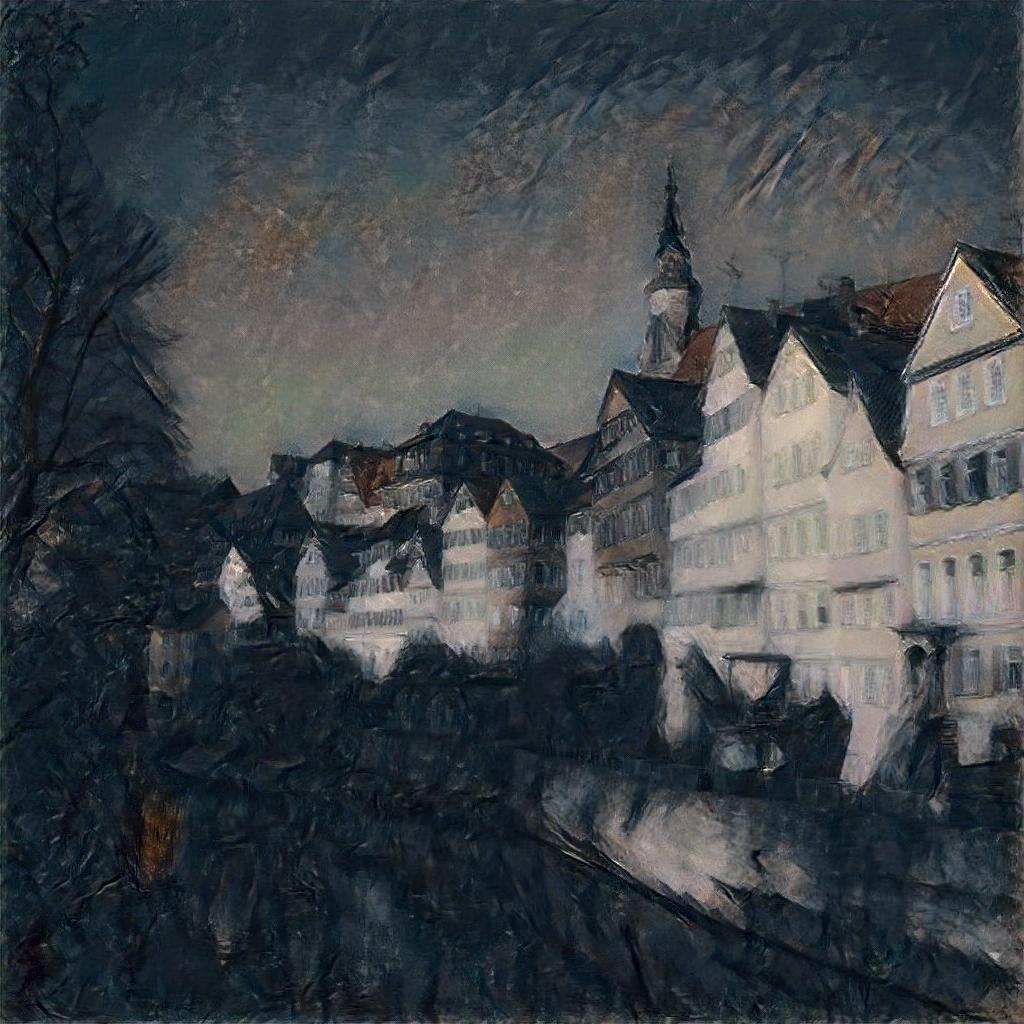
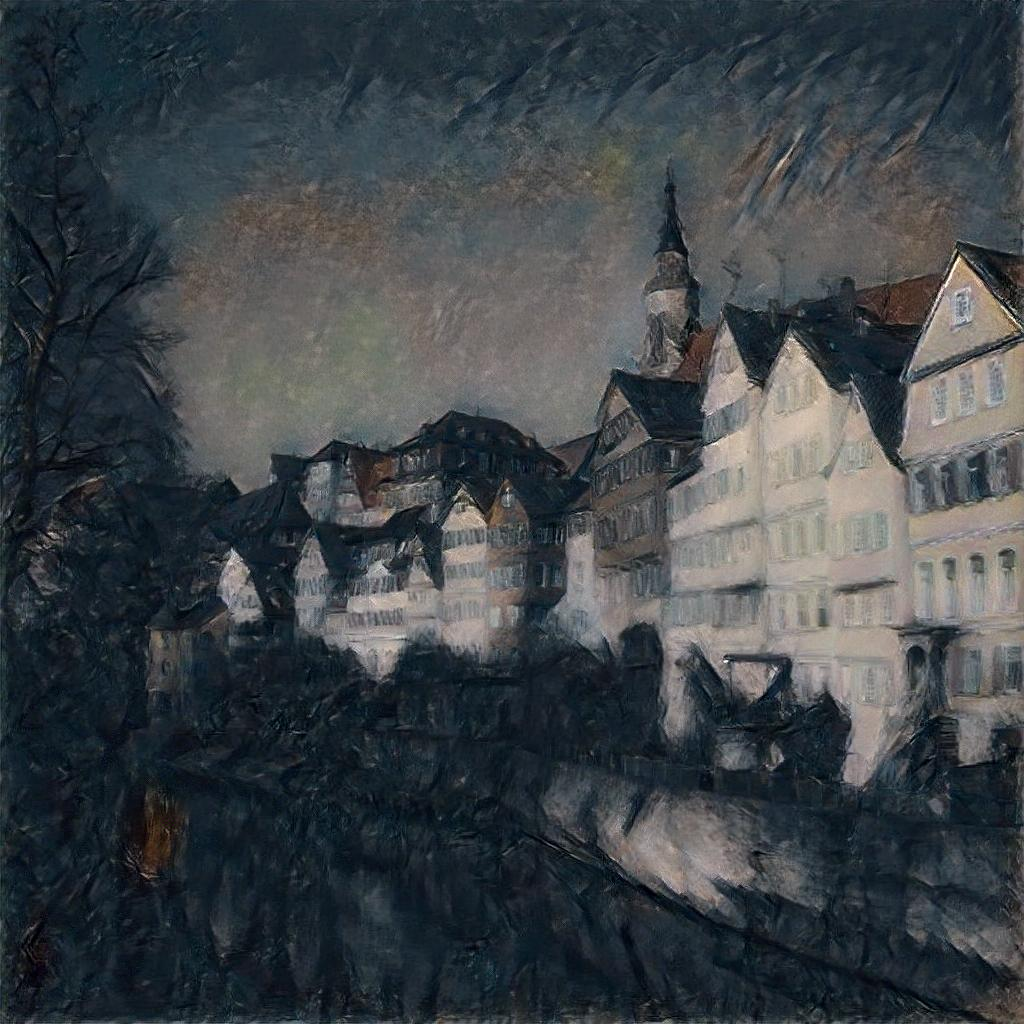
Add some images and results

diff --git a/neural_style_transfer.py b/neural_style_transfer.py
@@ -100,7 +100,7 @@ if __name__ == "__main__":
     parser.add_argument(
         "--tv_weight", type=float, default=1e-1, help="weight for total variation loss"
     )
-    parser.add_argument("--lr", type=float, default=0.1, help="learning rate")
+    parser.add_argument("--lr", type=float, default=0.01, help="learning rate")
     parser.add_argument("--steps", type=int, default=3000, help="number of iterations")
 
     args = parser.parse_args()
